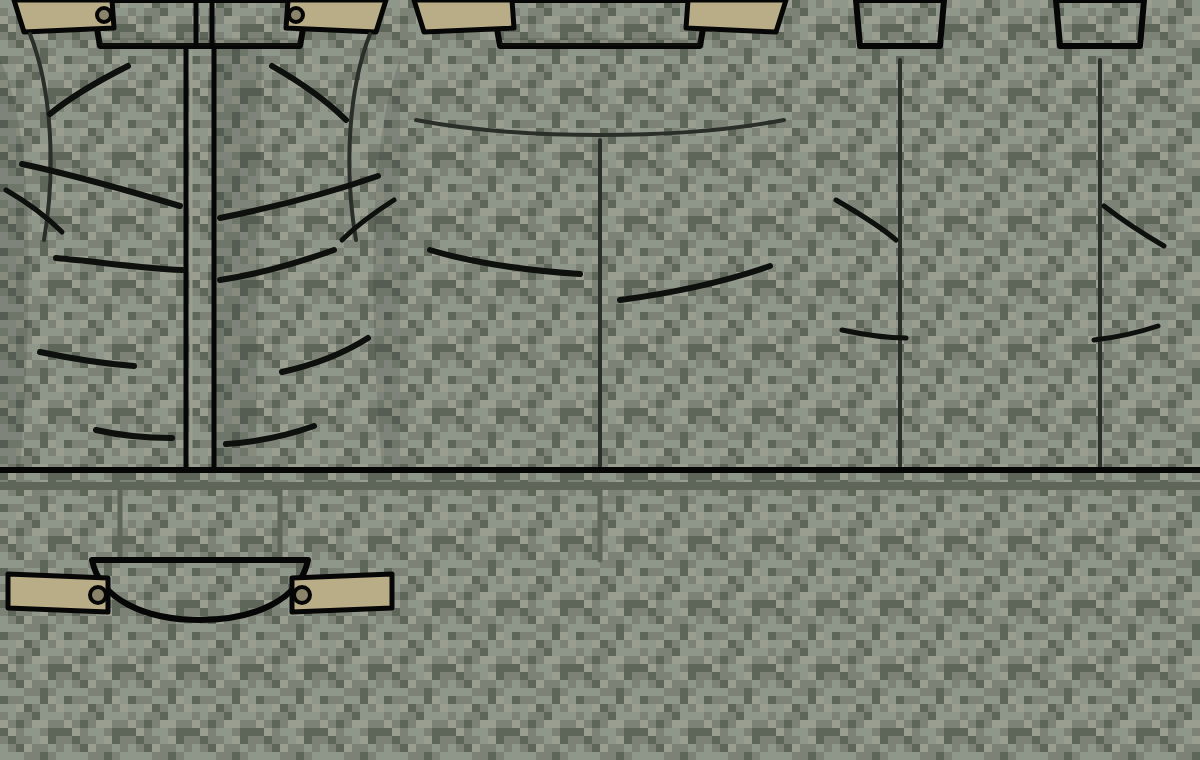
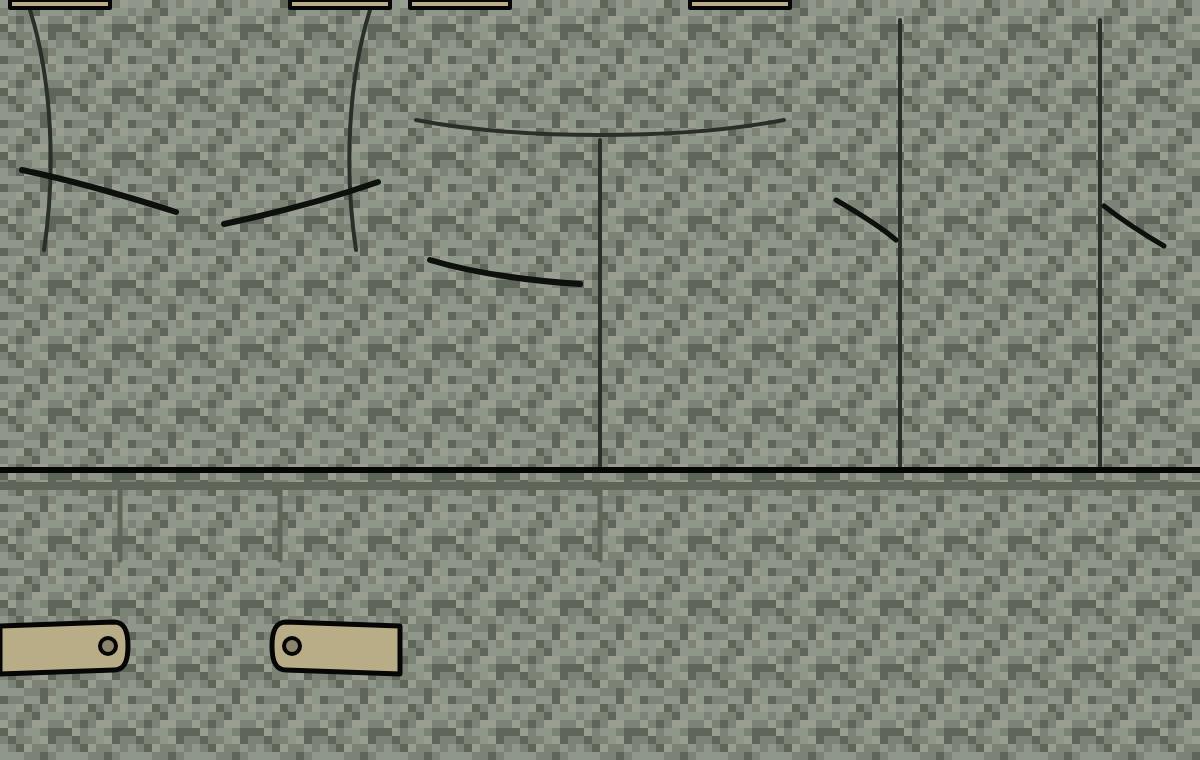
Troll Forces TROLLS #2531: a plain jacket, the straps on the shoulders (-nft2531f)
User: too many wrinkles, no placket, no collar, the shoulder straps
attached right. The template keeps one long fold in from each armpit, the
armhole and side seams, and the tan straps now lie along the top of each
shoulder from the neck out to the arm (the top face), only their front
edge showing on the chest. Trait art tag tr9.

diff --git a/assets/games/troll-ops/characters/traits.js b/assets/games/troll-ops/characters/traits.js
@@ -20,7 +20,7 @@ import { setClothed } from "./character.js?v=to-hb4-em1-fc1-wst-soc1-ww1c2f1m1u-
 const DIR = new URL("../traits/", import.meta.url);
 // The art's cache tag: bump it when a drawing changes (a dev page can set
 // globalThis.TRAITS_BUST to refetch every time).
-const ART_V = globalThis.TRAITS_BUST ?? "tr8";
+const ART_V = globalThis.TRAITS_BUST ?? "tr9";
 
 /* The trait library: one drawing per TROLLS trait VALUE, named after it
    (type/value -> id), so every token with that trait wears the same art

diff --git a/assets/games/troll-ops/characters/blocky-body.js b/assets/games/troll-ops/characters/blocky-body.js
@@ -22,7 +22,7 @@ import { addRim } from "../view/rim-light.js?v=sr1";
 import { tagInk, untagInk } from "../view/char-ink.js?v=ci1-ci2-ci3-ci4-ci5-rb4-rb5-mg1-sp1-ci6";
 
 const DIR = new URL("../traits/", import.meta.url);
-const ART_V = globalThis.TRAITS_BUST ?? "tr8";
+const ART_V = globalThis.TRAITS_BUST ?? "tr9";
 const FRAME = { w: 1000, h: 1167, spine: 500, chest: 233, unit: 1667 };   // the garment frame
 
 const SKIN = 0xf3f3ef, INK = 0x0a0a0a;
